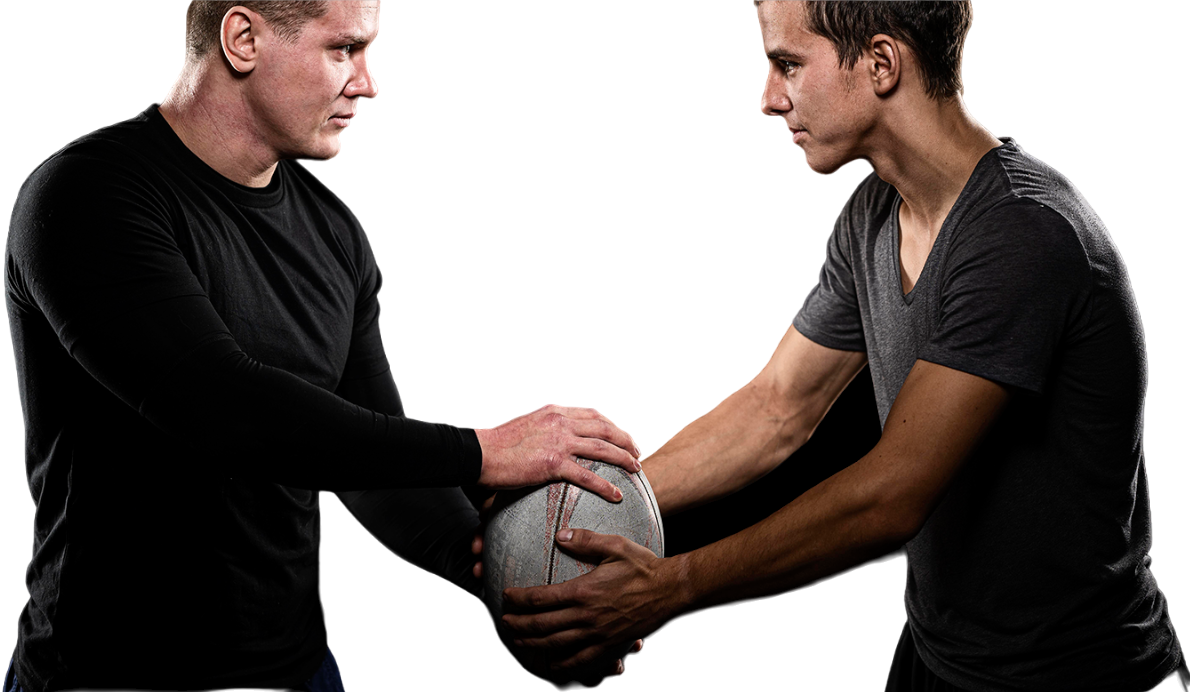
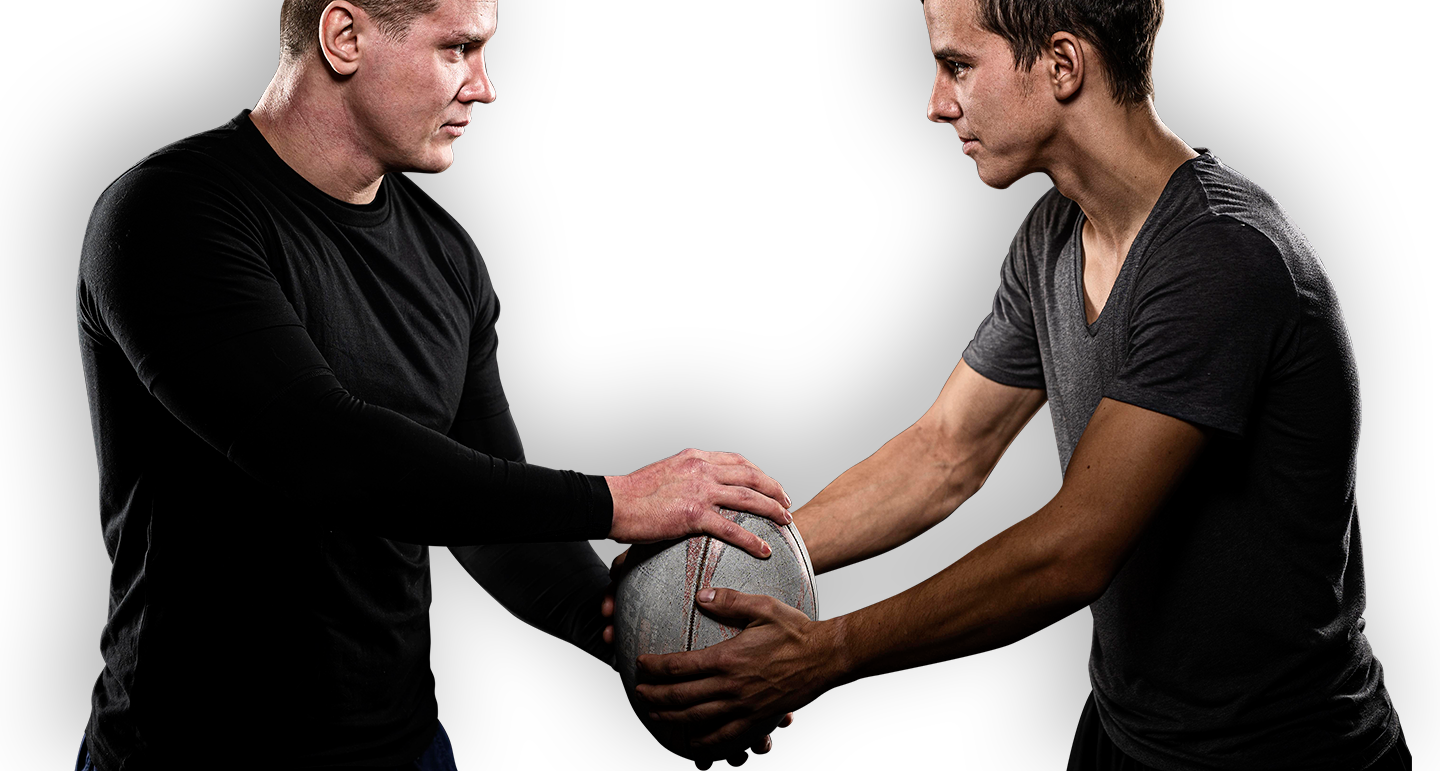
page signin and teams

Changed region(s): [[0.0, 0.0, 1.0, 1.0], [0.684, 0.789, 0.7773, 1.0], [0.7773, 0.6373, 0.8084, 0.6676]]

diff --git a/index.html b/index.html
@@ -22,9 +22,9 @@
   </header>
   <main>
     <section class="main-page">
-      <!-- <div class="main-page__container-img">
+      <div class="main-page__container-img">
         <img src="img/img-1.png" alt="fight" class="main-page__img">
-      </div> -->
+      </div>
       <div class="next-pages">
         <span class="next-pages__left">>>>></span>
         <span class="next-pages__right"><<<<</span>
@@ -64,11 +64,12 @@
         </div>
       </div>
       <div class="decoration">
-        <span class="decoration__line decoration__line"></span>
-        <span class="decoration__line decoration__line"></span>
-        <span class="decoration__line decoration__line"></span>
+        <span class="decoration__line"></span>
+        <span class="decoration__line"></span>
+        <span class="decoration__line"></span>
       </div>
     </section>
+
     <section class="page-sigin">
       <div class="decoration decoration--page-signin">
         <span class="decoration__line decoration__line--blue"></span>
@@ -80,7 +81,8 @@
         <span class="next-pages__right next-pages__right--page-signin"><<<<</span>
       </div>
       <div class="signin-content">
-        <div class="img">
+        <div class="img-page">
+          <img src="img/img-2.png" alt="img-jugador" class="img-page__img">
         </div>
         <div class="signin-information">
           <h1 class="signin-information__title">Lorem ipsum</h1>
@@ -92,6 +94,57 @@
         <span class="decoration__line  decoration__line--blue"></span>
         <span class="decoration__line  decoration__line--blue"></span>
         <span class="decoration__line  decoration__line--blue"></span>
+      </div>
+    </section>
+
+    <section class="page-sigin page-signin--invested">
+      <div class="next-pages">
+        <span class="next-pages__left next-pages__left--page-signin-invested">>>>></span>
+        <span class="next-pages__right next-pages__right--page-signin-invested"><<<<</span>
+      </div>
+      <div class="signin-content signin-content--invested">
+        <div class="signin-information signin-information--invested">
+          <h1 class="signin-information__title">Lorem ipsum</h1>
+          <p class="signin-information__text">Lorem ipsum dolor sit amet consectetur adipisicing elit. Hic magni vitae, perspiciatis beatae consequatur ullam quos deleniti maxime pariatur, maiores earum, explicabo assumenda fugiat debitis tempora provident illum numquam! Inventore.0</p>
+          <a href="#" class="btn-signin btn-signin--blue">Sign in</a>
+        </div>
+        <div class="img-page img-page--invested">
+          <img src="img/img-10.png" alt="img-jugador" class="img-page__img img-page__img--invested">
+          <div class="decoration decoration--page-signin decoration--page-signin-invested">
+            <span class="decoration__line  decoration__line--blue"></span>
+            <span class="decoration__line  decoration__line--blue"></span>
+            <span class="decoration__line  decoration__line--blue"></span>
+          </div>
+        </div>
+      </div>
+    </section>
+
+    <section class="page-teams">
+      <div class="next-pages">
+        <span class="next-pages__left next-pages__left--page-teams">>>>></span>
+        <div class="page-teams-information">
+          <h1 class="page-teams-information__title">Lorem ipsum</h1>
+          <p class="page-teams-information__text">Hic magni vitae, perspiciatis beatae consequatur ullam quos deleniti maxime pariatur.</p>
+        </div>
+        <span class="next-pages__right next-pages__right--page-teams"><<<<</span>
+      </div>
+      <div class="page-teams__teams">
+        <div class="page-teams__container">
+          <img src="img/img-3.png" alt="img-jugador" class="img-page__img img-page__img--team">
+          <div class="decoration decoration--team-left">
+            <span class="decoration__line decoration__line--blue"></span>
+            <span class="decoration__line decoration__line--blue"></span>
+            <span class="decoration__line decoration__line--blue"></span>
+          </div>
+        </div>
+        <div class="page-teams__container">
+          <img src="img/img-4.png" alt="img-jugador" class="img-page__img img-page__img--team">
+          <div class="decoration decoration--team--right">
+            <span class="decoration__line decoration__line--blue"></span>
+            <span class="decoration__line decoration__line--blue"></span>
+            <span class="decoration__line decoration__line--blue"></span>
+          </div>
+        </div>
       </div>
     </section>
   </main>

diff --git a/css/section_teams.css b/css/section_teams.css
@@ -1,0 +1,79 @@
+.page-teams {
+  display: flex;
+  flex-direction: column;
+  margin: 200px 0;
+}
+
+.page-teams-information{ 
+  display: flex;
+  flex-direction: column;
+  width: 30%;
+  align-items: center;
+  gap: 20px;
+  overflow-wrap: break-word;
+}
+
+.page-teams-information__title {
+    color: var(--colorPrincipal);
+  font-family: "Holtwood One SC", serif;
+  letter-spacing: 10px;
+  font-size: 45px;
+  text-transform: uppercase;
+}
+
+.page-teams-information__text {
+  color: var(--blanco);
+  font-size: 1.6rem;
+  letter-spacing: 3px;
+  line-height: 45px;
+  text-align: center;
+}
+
+.next-pages__left--page-teams {
+  rotate: -90deg;
+  color: var(--colorPrincipal);
+}
+
+.next-pages__right--page-teams {
+  rotate: -90deg;
+}
+
+.page-teams__teams {
+  display: flex;
+  width: 100%;
+  align-items: center;
+  justify-content: space-around;
+  margin-top: 8%;
+}
+
+.page-teams__container {
+  background-color: var(--colorPrincipal);
+  width: 25%;
+  height: 50vh;
+  position: relative;
+}
+
+.img-page__img--team {
+  width: 100%;
+  z-index: 1;
+  top: -20%;
+  right: 5%;
+  height: 60vh;
+  position: absolute;
+}
+
+.decoration--team-left {
+  position: absolute;
+  top: 3%;
+  left: -15%;
+  width: 18%;
+  height: 20%;
+}
+
+.decoration--team--right {
+  position: absolute;
+  bottom: 3%;
+  right: -15%;
+  width: 15%;
+  height: 20%;
+}

diff --git a/css/setcion_signin.css b/css/setcion_signin.css
@@ -3,7 +3,8 @@
   margin: 50px 0;
   display: flex;
   flex-direction: column;
-  gap: 30px;
+  justify-content: center;
+  gap: 2.5vh;
   position: relative;
 }
 
@@ -21,15 +22,24 @@
 }
 
 /* prueba */
-.img {
-  width: 100%;
+.img-page {
+  display: flex;
+  align-items: center;
+  width: 140vw;
+  height: 60vh;
   margin-right: 5%;
 }
 /*  */
 
+.img-page__img {
+  width: 120%;
+  z-index: 1;
+}
+
 .signin-information {
   width: 100%;
-  margin-right: 9%;
+  margin-right: 10%;
+  margin-left: -10%;
   display: flex;
   flex-direction: column;
   gap: 30px;
@@ -38,14 +48,14 @@
 .signin-information__title {
   color: var(--colorPrincipal);
   font-family: "Holtwood One SC", serif;
-  letter-spacing: 8px;
-  font-size: 43px;
+  letter-spacing: 10px;
+  font-size: 50px;
   text-transform: uppercase;
 }
 
 .signin-information__text {
   color: var(--blanco);
-  font-size: 1.6rem;
+  font-size: 1.7rem;
   text-align: justify;
 }
 
@@ -71,6 +81,6 @@
 }
 
 .decoration--page-signin-right {
-  margin-top: 20px;
+  margin-top: 5%;
   align-self: flex-end;
 }

diff --git a/css/section_signin_invested.css b/css/section_signin_invested.css
@@ -1,0 +1,49 @@
+.page-signin--invested {
+  margin: 200px 0 300px;
+  position: relative;
+}
+
+.signin-content--invested {
+  gap: 10%;
+}
+
+.signin-information--invested {
+  margin-left: 10%;
+  margin-right: 5%;
+}
+
+.img-page--invested {
+  width: 130%;
+  background-color: var(--colorPrincipal);
+  margin-right: 0;
+  position: relative;
+}
+
+.img-page__img--invested {
+  position: absolute;
+  width: 100%;
+  margin-bottom: 11%;
+  margin-left: -15%;
+  z-index: 2;
+  height: 70vh;
+}
+
+.decoration--page-signin-invested {
+  position: absolute;
+  top: 3%;
+  left: -10%;
+  width: 10%;
+}
+
+.next-pages__left--page-signin-invested {
+  position: absolute;
+  top: 5%;
+  left: 10%;
+  color: var(--colorPrincipal);
+}
+
+.next-pages__right--page-signin-invested {
+  bottom: -20%;
+  position: absolute;
+  left: 45%;
+}

diff --git a/css/section_principal.css b/css/section_principal.css
@@ -3,7 +3,12 @@
   display: flex;
   flex-direction: column;
   align-items: center;
-  gap: 4vh;
+  gap: 7vh;
+}
+
+.main-page__container-img {
+  position: relative;
+  width: 100%;
 }
 
 .main-page__img {
@@ -11,6 +16,7 @@
   position: absolute;
   width: 80%;
   left: 12%;
+  height: 100vh;
 }
 
 .next-pages {
@@ -105,6 +111,6 @@
   text-transform: uppercase;
   font-family: "Holtwood One SC", serif;
   font-weight: 1000;
-  /* letter-spacing: 30px; */
+  letter-spacing: 30px;
   margin-top: -170px;
 }

diff --git a/style.css b/style.css
@@ -5,6 +5,8 @@
 @import url(css/section_principal.css);
 @import url(css/section_time_event.css);
 @import url(css/setcion_signin.css);
+@import url(css/section_signin_invested.css);
+@import url(css/section_teams.css);
 
 * {
   margin: 0;
@@ -14,7 +16,7 @@
 }
 
 ::-webkit-scrollbar {
-  display: none;
+  /* display: none; */
 }
 
 /* Body */
